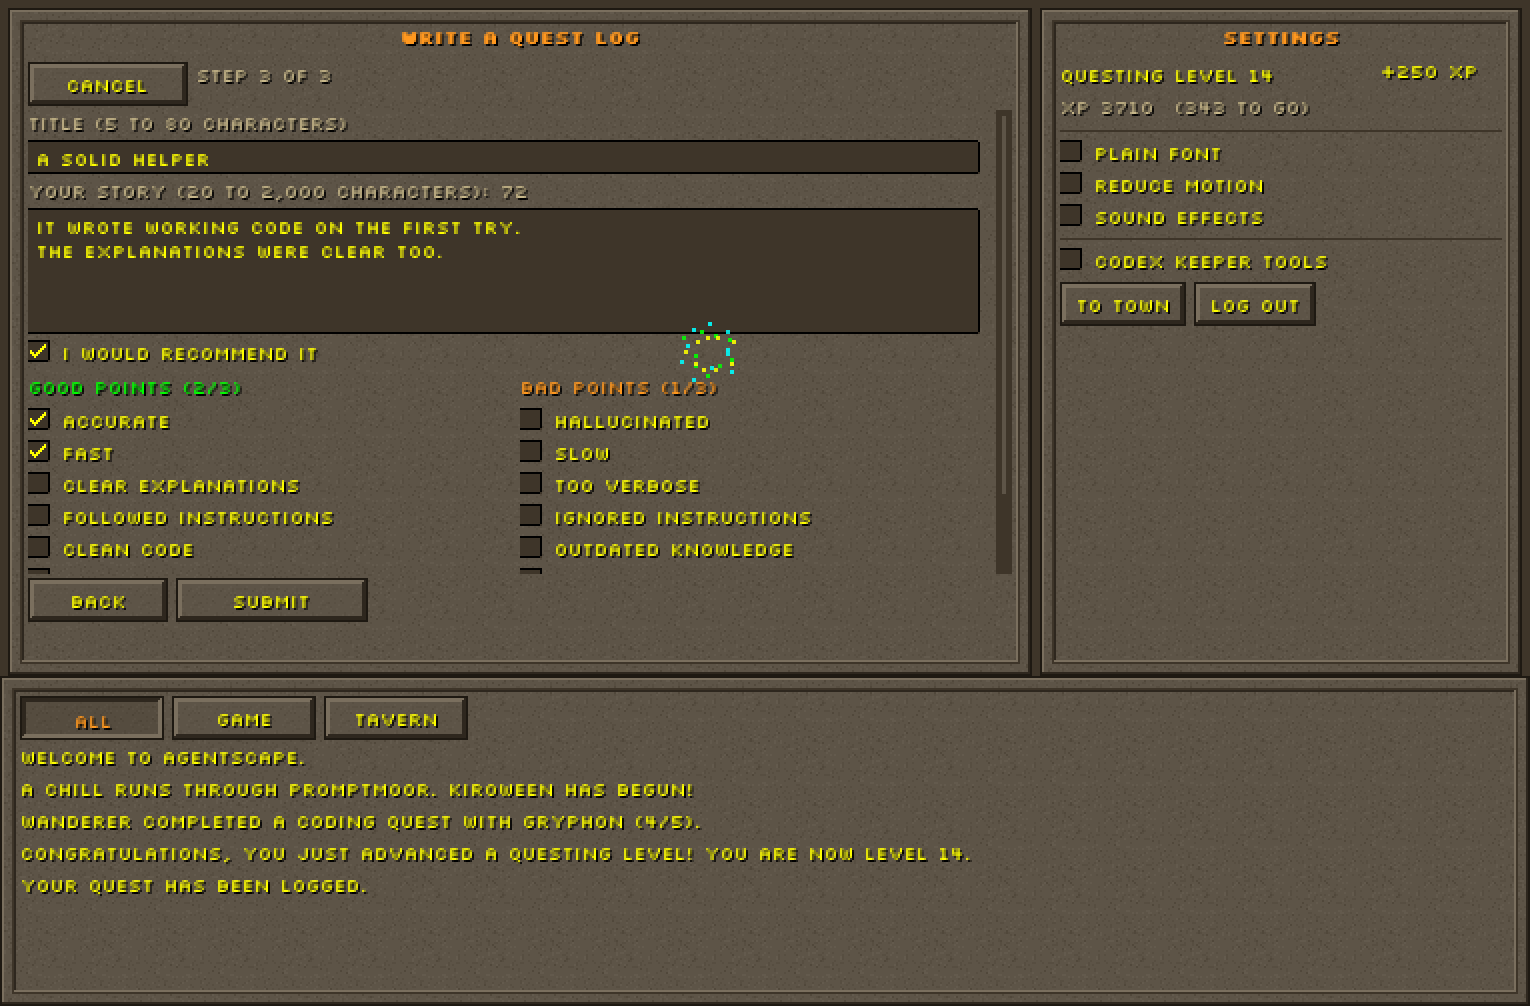
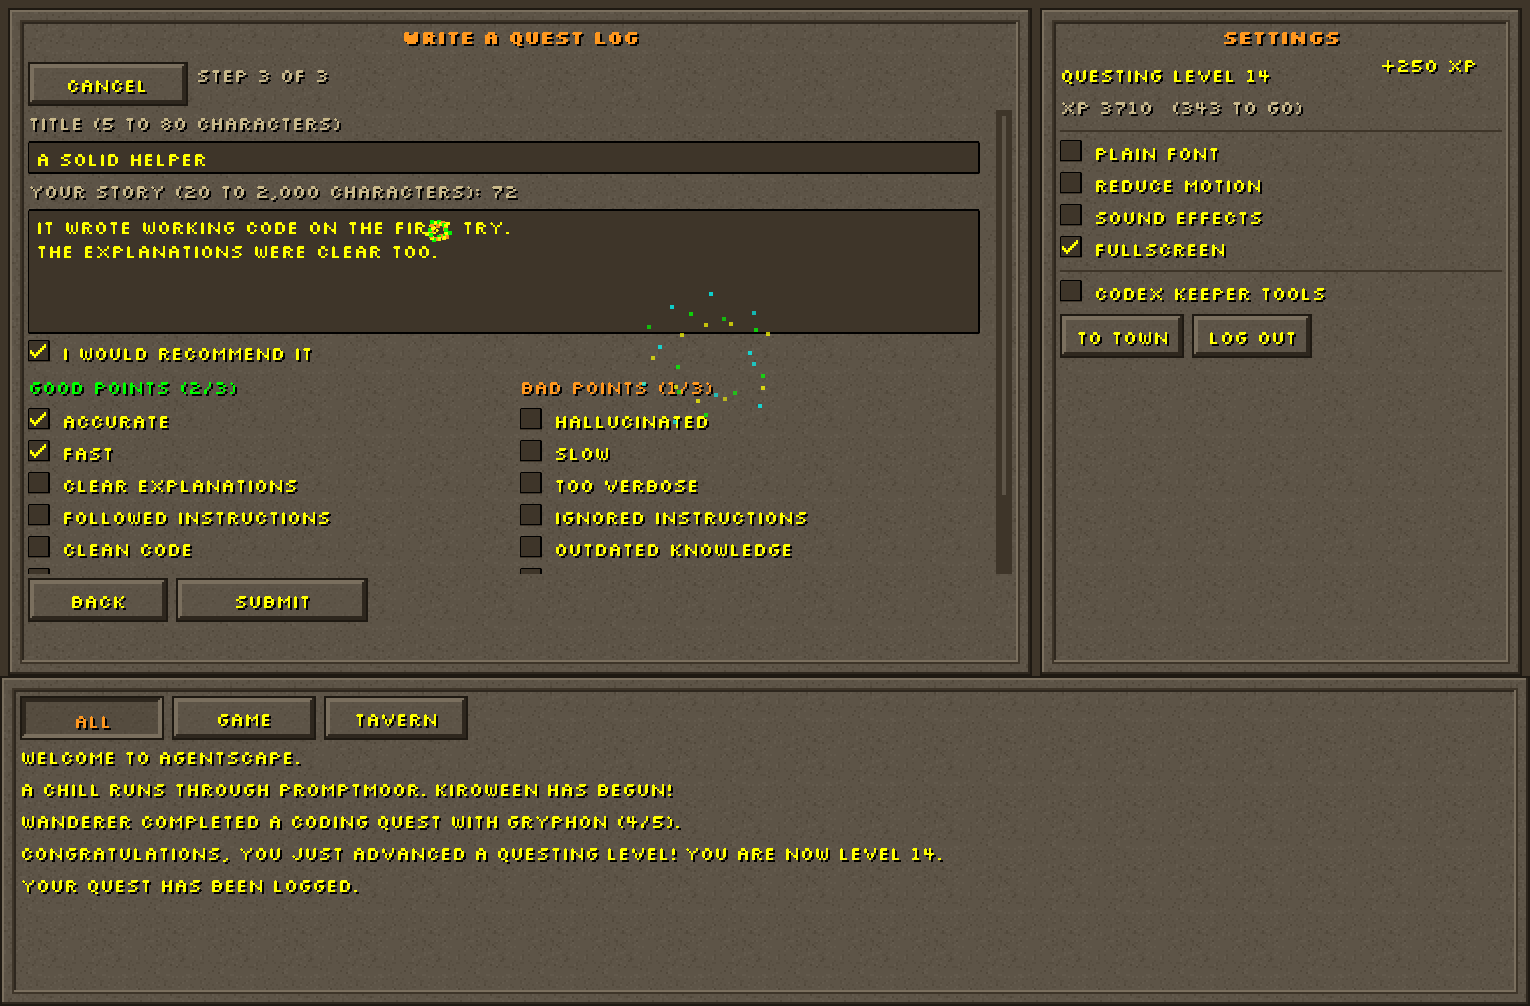
Final screenshots at 2x, fog seam fix, submission facts
- Regenerate all 14 README screenshots with the current build. Since #45 they render at 1530x1006
  with text rasterised at 2x. The dev fixture's Adventurer no longer shares the NPC Mossbeard's
  name, so Hiscores row 1 shows its sprite.
- Snap the fog layer's drift offset to whole frame pixels. At 2x and above, a fractional offset left
  a one-pixel seam between two fog tiles on the town map (art-direction: whole-pixel positions).
- SUBMISSION: the Pages deploy and web check are from #45, the screenshot size, the PR count and #45
  credited as human-authored.

diff --git a/src/game/kiroween_layer.cpp b/src/game/kiroween_layer.cpp
@@ -1,5 +1,6 @@
 #include "game/kiroween_layer.hpp"
 
+#include <cmath>
 #include <cstdint>
 #include <filesystem>
 
@@ -44,9 +45,13 @@ void KiroweenLayer::drawFog(ImDrawList* dl, render::TextureCache& tex, ImVec2 mi
   const auto fw = static_cast<float>(fog.w);
   const auto fh = static_cast<float>(fog.h);
   dl->PushClipRect(min, max, true);
-  // Tile with a per-frame scroll offset so the fog drifts.
-  for (float y = min.y - fh + fog_.y; y < max.y; y += fh) {
-    for (float x = min.x - fw + fog_.x; x < max.x; x += fw) {
+  // Tile with a per-frame scroll offset so the fog drifts. The offset is snapped to whole frame pixels (the drift
+  // itself stays smooth in fog_): at a fractional position, tile edges fall mid-pixel once the frame is drawn at
+  // 2x or more, and the rasteriser can leave a one-pixel seam between two tiles.
+  const float ox = std::floor(fog_.x);
+  const float oy = std::floor(fog_.y);
+  for (float y = std::floor(min.y) - fh + oy; y < max.y; y += fh) {
+    for (float x = std::floor(min.x) - fw + ox; x < max.x; x += fw) {
       dl->AddImage(texId(fog), {x, y}, {x + fw, y + fh});
     }
   }

diff --git a/docs/SUBMISSION.md b/docs/SUBMISSION.md
@@ -17,11 +17,11 @@ This file has the pre-submission checklist, the Devpost description, the demo vi
 
 ### Working app
 
-- [x] **Web build URL (GitHub Pages):** `https://marquisxgrove.github.io/AgentScape/`. Pages is enabled (source: GitHub Actions) and `.github/workflows/pages.yml` redeploys whenever CI passes on `main`; the latest deploy is from #42. The team opened the live link and confirmed the game loads.
+- [x] **Web build URL (GitHub Pages):** `https://marquisxgrove.github.io/AgentScape/`. Pages is enabled (source: GitHub Actions) and `.github/workflows/pages.yml` redeploys whenever CI passes on `main`; the latest deploy is from #45. The team opened the live link and confirmed the game loads.
 - [ ] **Release binaries** for Windows, macOS and Linux on a GitHub Release. ✏ YOU: `git tag v1.0.0 && git push origin v1.0.0`; `.github/workflows/release.yml` builds and attaches them. Then paste the link: `https://github.com/marquisxgrove/AgentScape/releases/latest`.
 - [ ] *(Optional)* **Sign in with GitHub** in the release builds. ✏ YOU: create a GitHub OAuth App with *Enable Device Flow* on, and put its client ID in the repository variable `AS_GITHUB_CLIENT_ID` before tagging. Without it the release offers Play as Guest and Create a profile, which is enough for judging.
 - [x] Judging builds (Pages and release) are built with `AS_KIROWEEN_DEFAULT=on`, so the spooky layer is visible for the whole judging period.
-- [x] "Play as Guest" works in the web build in a private window (an in-memory warning is acceptable there) and in a normal window, and data survives a reload. The team confirmed Play as Guest on the live Pages site. *Also checked by automation: the deployed Pages artifact (from #42) was loaded in headless Chromium. It opened with no errors and the store came up at schema 7. Play as Guest, creating an Adventurer with the keyboard, the Grand Codex and an Agent card all worked, and the signed-in Guest and Adventurer were still there after a reload (IndexedDB).*
+- [x] "Play as Guest" works in the web build in a private window (an in-memory warning is acceptable there) and in a normal window, and data survives a reload. The team confirmed Play as Guest on the live Pages site. *Also checked by automation: the deployed Pages artifact (from #45) was loaded in headless Chromium (WebGL) at 1920×940. It opened with no console errors and the store came up at schema 7. Play as Guest and creating an Adventurer with the keyboard worked; the frame filled the window, turning Fullscreen off dropped it to an exact 1×, and resizing to 2× and 3× sizes re-rasterised the text sharply and back again; the signed-in Guest was still there after a reload (IndexedDB).*
 - [x] On first launch, the seed data loads: every familiar is ranked, and the Hiscores, the Tavern (12 sample Quest Logs) and the Hall of Hallucinations (13 graves) are populated.
 - [x] The headless smoke tests pass in CI on Windows, macOS and Linux (and under AddressSanitizer + UBSan on Linux).
 - [ ] ✏ YOU: the demo path checked by hand in the web build in Chrome, Firefox and Safari.
@@ -65,7 +65,7 @@ We rebuilt them with today's tech: a native C++20 client on SDL3 and Dear ImGui,
 >
 > **Built with:** C++20 · SDL3 · Dear ImGui · SQLite · Emscripten (WebAssembly) · Catch2 · RapidCheck · CMake · GitHub Actions.
 
-Screenshots for the gallery: `docs/screenshots/readme/` (login, world map, Costumer, Codex, examine card, Proving Grounds, quest scroll, level-up, Tavern, Hiscores, Hall of Hallucinations, The Wilds idle, with a familiar, and solo). Regenerate them with the current build at any time; every one comes from the real app. ✏ YOU: add the video link.
+Screenshots for the gallery: `docs/screenshots/readme/` (login, world map, Costumer, Codex, examine card, Proving Grounds, quest scroll, level-up, Tavern, Hiscores, Hall of Hallucinations, The Wilds idle, with a familiar, and solo). They are 1530×1006 (the frame at 2×, with text rasterised at that resolution). Regenerate them with the current build at any time with `tools/render_readme_shots.sh`; every one comes from the real app. ✏ YOU: add the video link.
 
 ---
 
@@ -92,12 +92,12 @@ Recording notes: record the desktop build at 1080p, with the game frame at 2× s
 
 ## 5. How we used Kiro
 
-> Facts below are from the project's own history (42 pull requests, the specs and their task notes). Parts marked ✏ YOU are the team's own experience.
+> Facts below are from the project's own history (46 pull requests, the specs and their task notes). Parts marked ✏ YOU are the team's own experience.
 
 ### Kiro surfaces used
 
-- **Kiro Web (autonomous agent in a cloud sandbox).** Most of the implementation (the large majority of commits across PRs #1–#36) was written by the Kiro agent working in the browser-based environment: reading the specs, implementing one task slice per pull request, running the build and the whole test suite in its sandbox, rendering the real app headlessly to check every screen, and opening each PR with what it had and had not verified. The team reviewed and merged every PR, and steered between them in plain language ("use a branch and PR approach", "switch the sample data to fictional agents", "seed sample logs, then the final checkpoint", "increase the font size").
-- **Human-authored changes** sat between agent PRs where the team wanted control: CI hardening and test fixes (#31), Guest remember-me with Back navigation (#34), Pages gated on green CI and GitHub sign-in with platform TLS (#38), the navigation pass and local profiles (#39), the coding-sessions spec and The Wilds (#40), and the WebGL probe fix for the web build (#42).
+- **Kiro Web (autonomous agent in a cloud sandbox).** Most of the implementation (the large majority of commits across PRs #1–#36, plus the fit-to-window scaling in #44 and the final screenshot pass) was written by the Kiro agent working in the browser-based environment: reading the specs, implementing one task slice per pull request, running the build and the whole test suite in its sandbox, rendering the real app headlessly to check every screen, and opening each PR with what it had and had not verified. The team reviewed and merged every PR, and steered between them in plain language ("use a branch and PR approach", "switch the sample data to fictional agents", "seed sample logs, then the final checkpoint", "increase the font size").
+- **Human-authored changes** sat between agent PRs where the team wanted control: CI hardening and test fixes (#31), Guest remember-me with Back navigation (#34), Pages gated on green CI and GitHub sign-in with platform TLS (#38), the navigation pass and local profiles (#39), the coding-sessions spec and The Wilds (#40), the WebGL probe fix for the web build (#42), and the Fullscreen setting with sharp text at large scales (#45).
 - ✏ YOU: if you also used the Kiro IDE or CLI (for the specs, steering or hooks), say which tasks you preferred on each surface.
 
 ### Spec-driven development
